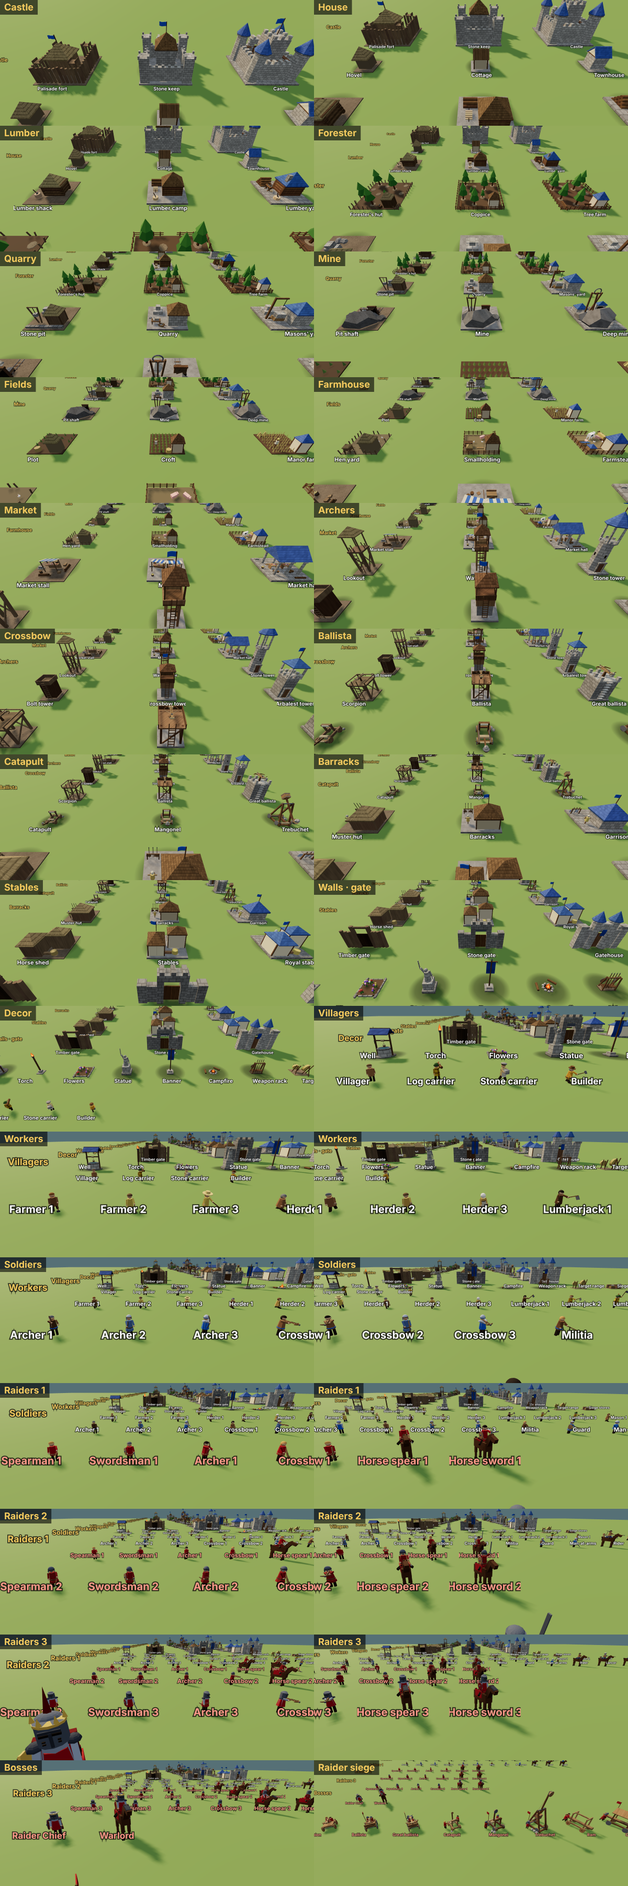
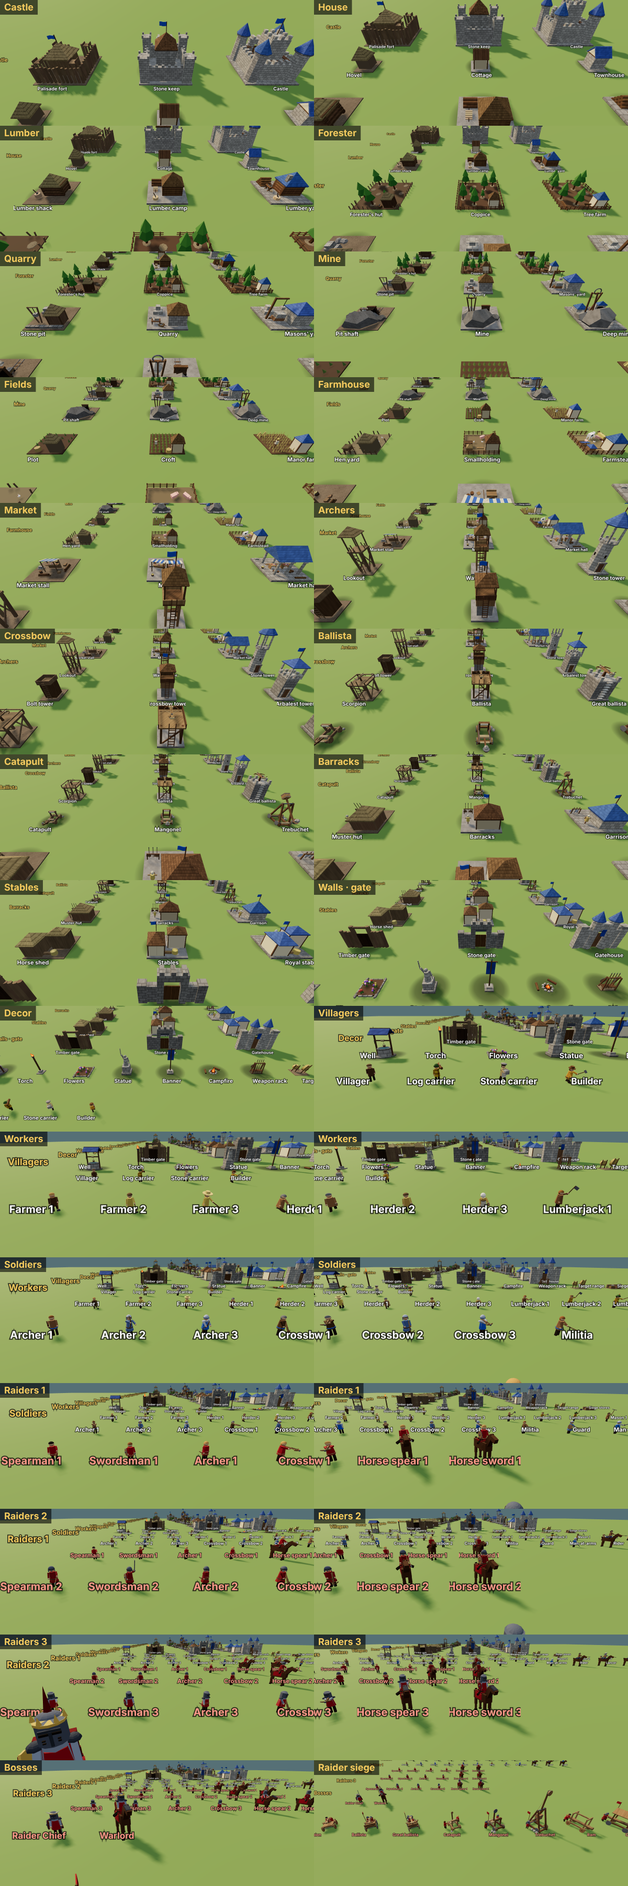
Codex zoom by footprint, bosses and siege; no oval under buildings; target posts on the straw; no fletching; riders' legs clear the flank cloths
Claude-Session: https://claude.ai/code/session_01KSdcztEkEeGoCTCNjYvWmU

Changed region(s): [[0.0308, 0.9022, 0.1233, 0.9333], [0.4317, 0.6844, 0.4625, 0.7156]]

diff --git a/index.html b/index.html
@@ -3832,9 +3832,11 @@ function makeButts() {
     // leaning back with it, and a prop down to the ground behind
     const S = new THREE.Group(); S.position.set(x, 0, z); S.rotation.y = a; g.add(S);
     const t = new THREE.Group(); t.position.set(0, r + .32, 0); t.rotation.x = -.18; S.add(t);
-    const L = r * 2 + .42;
-    for (const sx of [-1, 1]) { const l = box(.05, L, .05, M.timber, sx * r * .62, L / 2 * Math.cos(.18) , -.13 - L / 2 * Math.sin(.18)); l.rotation.x = -.18; S.add(l); }
-    const pr = box(.045, L * .95, .045, M.timber, 0, L * .42, -.42); pr.rotation.x = .42; S.add(pr);
+    // the two posts in the target's own (tilted) frame, flat against the straw's back face, from the ground to just over its top,
+    // and a rail across them behind the straw (Jack: the straw stood apart from its posts)
+    const bot = -(r + .32) / Math.cos(.18) - .05, top = r + .08;
+    for (const sx of [-1, 1]) t.add(box(.055, top - bot, .05, M.timber, sx * r * .62, (top + bot) / 2, -.126));
+    t.add(box(r * 1.5, .05, .04, M.timber, 0, -r * .45, -.17));
     const face = cyl(r, r, .2, 14, M.hay, 0, 0, 0); face.rotation.x = Math.PI / 2; t.add(face);
     // painted rings, each a little proud of the one behind (at one depth they fought for the same pixels and showed in patches)
     [[r * .78, M.canvas], [r * .58, kiteM], [r * .36, M.canvas], [r * .16, kiteM]].forEach(([rr, m], i) => { const ring = cyl(rr, rr, .012, 20, m, 0, 0, .106 + i * .008); ring.rotation.x = Math.PI / 2; t.add(ring); });
@@ -3853,11 +3855,10 @@ function makeStores() {
   g.add(box(1.5, .04, 1.2, M.court, 0, .02, 0));
   const crate = (x, z, w, d, h, r = 0) => { const c = box(w, h, d, M.wood, x, h / 2 + .04, z); c.rotation.y = r; g.add(c); for (const sy of [.2, .8]) { const b = box(w + .01, .03, d + .01, M.timber, x, h * sy + .04, z); b.rotation.y = r; g.add(b); } };
   crate(-.35, -.2, .6, .45, .35, .1);
-  // bolts, iron heads out: shaft and head built together and turned as one (Jack: the heads sat off the shafts' ends)
+  // bolts, iron heads out: shaft and head built together and turned as one (Jack: the heads sat off the shafts' ends; no fletching)
   for (let n = 0; n < 6; n++) {
     const b = new THREE.Group(); b.position.set(-.52 + (n % 3) * .14, .44 + Math.floor(n / 3) * .05, -.2 + (n % 2 ? .06 : -.06)); b.rotation.y = .1 + Math.PI / 2; g.add(b);
     b.add(box(.035, .035, .75, M.timber, 0, 0, 0)); const t = cone(.03, .1, 4, M.iron, 0, 0, .42); t.rotation.x = Math.PI / 2; b.add(t);
-    for (const s of [-1, 1]) { const f = box(.005, .05, .09, M.canvas, s * .02, 0, -.33); f.rotation.z = s * .5; b.add(f); }
   }
   crate(.4, -.25, .45, .45, .3, -.2);
   for (const [x, z] of [[.33, -.33], [.47, -.33], [.33, -.17], [.47, -.17], [.4, -.25]]) { const st = new THREE.Mesh(new THREE.DodecahedronGeometry(.075, 0), M.stone2); st.position.set(x, .4 + (x === .4 ? .08 : 0), z); st.castShadow = true; g.add(st); }   // round shot
@@ -5539,7 +5540,7 @@ const horseM = mat('#5a3a22'), maneM = mat('#2a1d14'), saddleM = mat('#3a2418'),
 const SADDLE = .72;   // lifts the rider's body so the hips sit on the saddle
 // a rider's legs: out to the sides and a little forward, down the horse's flanks (Jack: at -1.2 forward and .55 out they went
 // through the saddle and blanket)
-const RIDE_X = -.85, RIDE_Z = .85;
+const RIDE_X = -.85, RIDE_Z = 1.0;
 function mountHorse(p, cloth = blanketM) {
   const h = new THREE.Group(); p.g.add(h);
   h.add(box(.34, .36, .92, horseM, 0, .78, 0));                                   // barrel
@@ -5638,7 +5639,7 @@ function makeRaider(kind, tier = 1) {
   if (ENEMY[kind].mounted) {
     mountHorse(p);
     if (tier === 3) { const ch = box(.17, .06, .34, darkIronM, 0, 1.3, .72); ch.rotation.x = .35; p.horse.add(ch); }   // an iron plate down the horse's face
-    if (tier >= 2) for (const sx of [-1, 1]) p.horse.add(box(.02, .3, .5, raiderRed, sx * .185, .9, -.05));               // a red cloth down its flanks
+    if (tier >= 2) for (const sx of [-1, 1]) p.horse.add(box(.02, .26, .5, raiderRed, sx * .185, .8, -.05));               // a red cloth down its flanks
   }
   return p;
 }
@@ -5667,7 +5668,7 @@ function bossGear(p, kind) {
     armShield(p, heaterShield(.3, .38, raiderShieldM, bossGoldM));
     if (p.horse) {
       p.horse.add(box(.4, .34, .96, bardM, 0, .74, 0));                          // dark barding over the barrel
-      for (const sx of [-1, 1]) p.horse.add(box(.02, .36, .7, cloakM, sx * .205, .78, -.02));   // red cloth on both flanks
+      for (const sx of [-1, 1]) p.horse.add(box(.02, .32, .7, cloakM, sx * .205, .72, -.02));   // red cloth on both flanks
       const ch = box(.17, .06, .34, bossGoldM, 0, 1.3, .72); ch.rotation.x = .35; p.horse.add(ch);  // a gilded plate down its face
     }
   }
@@ -7892,7 +7893,11 @@ function codexMeet(kind, tier) { if (!achOn() || !ENEMY[kind] || (CODEX.r[kind] 
 // ---- the little renderer: one fixed square canvas, copied to the live view each frame and snapped for the list's thumbnails ----
 const CX_PX = 320;
 // each kind's zoom: [fit (metres), how high the camera aims (× fit), the grass patch's radius for figures and engines]
-const CX_FIT = { build: [4.6, .36], decor: [2.1, .4], foot: [.78, .48, .45], horse: [1.15, .5, .7], siege: [2.05, .36, 1.5] };
+// buildings by footprint (Jack): the 3×3 ones (castle, forester) in proportion to each other, the 2×2 ones smaller and the 1×1 ones
+// smaller again, though each a little bigger than to true scale; the town's catapult at the raiders' siege zoom; bosses on their own
+// (smaller than the figures they stand among); a tall building backs the camera off a little more so its top shows
+const CX_FIT = { b3: [5.6, .36], b2: [4.4, .36], b1: [3.3, .38], decor: [2.1, .4], foot: [.78, .48, .45], horse: [1.15, .5, .7], siege: [2.7, .38, 1.5],
+  bossFoot: [1.08, .5, .5], bossHorse: [1.6, .5, .8] };
 let cxR = null, cxScene = null, cxCam = null, cxModel = null, cxRaf = 0, cxT0 = 0, cxLast = 0;
 function codexRenderer() {
   if (cxR) return;
@@ -7914,12 +7919,14 @@ function codexRenderer() {
 function codexModel(side, id, tier) {
   if (side === 'b') {
     const g = makeModel(id, tier, true, id === 'wall' || id === 'gate' ? 10 : 0, 0); galPreview(g, id, tier);
-    return { g, cat: DEF[id].decor ? 'decor' : 'build', foot: (DEF[id].size || 1) * CELL };
+    // the soft dark patch drawn under buildings on the map shows as an oval on the round grass here (Jack): hidden
+    g.traverse(o => { if (o.userData.ao) o.visible = false; });
+    return { g, cat: DEF[id].decor ? 'decor' : id === 'catapult' ? 'siege' : 'b' + (DEF[id].size || 1), foot: id === 'catapult' ? 0 : (DEF[id].size || 1) * CELL };
   }
   const E = ENEMY[id], p = makeRaider(id, E.boss ? 3 : tier);
   Object.assign(p, E.engine ? { kind: id, tier, rate: E.rate, seed: 0 } : { raider: id, rt: tier, seed: 0 });
   if (!E.engine) p.g.scale.setScalar(UNIT_K * (E.boss || 1));
-  return { g: p.g, p, cat: E.engine ? 'siege' : E.mounted ? 'horse' : 'foot' };
+  return { g: p.g, p, cat: E.engine ? 'siege' : E.boss ? (E.mounted ? 'bossHorse' : 'bossFoot') : E.mounted ? 'horse' : 'foot' };
 }
 // frame the model: the camera backs off to fit its bounding box, a little from above and to the side
 function codexFrame(m) {
@@ -7930,7 +7937,7 @@ function codexFrame(m) {
   // one zoom per kind (Jack: models of a kind in proportion to each other): the economy and defence buildings share one, decor
   // another, raiders on foot, mounted raiders and siege engines one each; each fits the biggest of its kind (the stone castle, the
   // banner, the Raider Chief, the Warlord, the trebuchet), and the ground sits at the same height in the view for all of a kind
-  const F = CX_FIT[m.cat], fit = F[0], d = fit / Math.tan(cxCam.fov * Math.PI / 360) * 1.02;
+  const F = CX_FIT[m.cat], fit = m.cat[0] === 'b' && m.cat !== 'bossFoot' && m.cat !== 'bossHorse' ? Math.max(F[0], size.y * .62) : F[0], d = fit / Math.tan(cxCam.fov * Math.PI / 360) * 1.02;
   // the grass: past a building's corners (half its footprint's diagonal), a set patch under figures and engines
   const r = m.foot ? m.foot * .71 + .25 : F[2], lawn = cxScene.getObjectByName('lawn');
   lawn.scale.set(r, 1, r); lawn.position.set(0, -.06, 0);

diff --git a/src/game/11-codex.js b/src/game/11-codex.js
@@ -31,7 +31,11 @@ function codexMeet(kind, tier) { if (!achOn() || !ENEMY[kind] || (CODEX.r[kind] 
 // ---- the little renderer: one fixed square canvas, copied to the live view each frame and snapped for the list's thumbnails ----
 const CX_PX = 320;
 // each kind's zoom: [fit (metres), how high the camera aims (× fit), the grass patch's radius for figures and engines]
-const CX_FIT = { build: [4.6, .36], decor: [2.1, .4], foot: [.78, .48, .45], horse: [1.15, .5, .7], siege: [2.05, .36, 1.5] };
+// buildings by footprint (Jack): the 3×3 ones (castle, forester) in proportion to each other, the 2×2 ones smaller and the 1×1 ones
+// smaller again, though each a little bigger than to true scale; the town's catapult at the raiders' siege zoom; bosses on their own
+// (smaller than the figures they stand among); a tall building backs the camera off a little more so its top shows
+const CX_FIT = { b3: [5.6, .36], b2: [4.4, .36], b1: [3.3, .38], decor: [2.1, .4], foot: [.78, .48, .45], horse: [1.15, .5, .7], siege: [2.7, .38, 1.5],
+  bossFoot: [1.08, .5, .5], bossHorse: [1.6, .5, .8] };
 let cxR = null, cxScene = null, cxCam = null, cxModel = null, cxRaf = 0, cxT0 = 0, cxLast = 0;
 function codexRenderer() {
   if (cxR) return;
@@ -53,12 +57,14 @@ function codexRenderer() {
 function codexModel(side, id, tier) {
   if (side === 'b') {
     const g = makeModel(id, tier, true, id === 'wall' || id === 'gate' ? 10 : 0, 0); galPreview(g, id, tier);
-    return { g, cat: DEF[id].decor ? 'decor' : 'build', foot: (DEF[id].size || 1) * CELL };
+    // the soft dark patch drawn under buildings on the map shows as an oval on the round grass here (Jack): hidden
+    g.traverse(o => { if (o.userData.ao) o.visible = false; });
+    return { g, cat: DEF[id].decor ? 'decor' : id === 'catapult' ? 'siege' : 'b' + (DEF[id].size || 1), foot: id === 'catapult' ? 0 : (DEF[id].size || 1) * CELL };
   }
   const E = ENEMY[id], p = makeRaider(id, E.boss ? 3 : tier);
   Object.assign(p, E.engine ? { kind: id, tier, rate: E.rate, seed: 0 } : { raider: id, rt: tier, seed: 0 });
   if (!E.engine) p.g.scale.setScalar(UNIT_K * (E.boss || 1));
-  return { g: p.g, p, cat: E.engine ? 'siege' : E.mounted ? 'horse' : 'foot' };
+  return { g: p.g, p, cat: E.engine ? 'siege' : E.boss ? (E.mounted ? 'bossHorse' : 'bossFoot') : E.mounted ? 'horse' : 'foot' };
 }
 // frame the model: the camera backs off to fit its bounding box, a little from above and to the side
 function codexFrame(m) {
@@ -69,7 +75,7 @@ function codexFrame(m) {
   // one zoom per kind (Jack: models of a kind in proportion to each other): the economy and defence buildings share one, decor
   // another, raiders on foot, mounted raiders and siege engines one each; each fits the biggest of its kind (the stone castle, the
   // banner, the Raider Chief, the Warlord, the trebuchet), and the ground sits at the same height in the view for all of a kind
-  const F = CX_FIT[m.cat], fit = F[0], d = fit / Math.tan(cxCam.fov * Math.PI / 360) * 1.02;
+  const F = CX_FIT[m.cat], fit = m.cat[0] === 'b' && m.cat !== 'bossFoot' && m.cat !== 'bossHorse' ? Math.max(F[0], size.y * .62) : F[0], d = fit / Math.tan(cxCam.fov * Math.PI / 360) * 1.02;
   // the grass: past a building's corners (half its footprint's diagonal), a set patch under figures and engines
   const r = m.foot ? m.foot * .71 + .25 : F[2], lawn = cxScene.getObjectByName('lawn');
   lawn.scale.set(r, 1, r); lawn.position.set(0, -.06, 0);

diff --git a/src/game/04-models.js b/src/game/04-models.js
@@ -1056,9 +1056,11 @@ function makeButts() {
     // leaning back with it, and a prop down to the ground behind
     const S = new THREE.Group(); S.position.set(x, 0, z); S.rotation.y = a; g.add(S);
     const t = new THREE.Group(); t.position.set(0, r + .32, 0); t.rotation.x = -.18; S.add(t);
-    const L = r * 2 + .42;
-    for (const sx of [-1, 1]) { const l = box(.05, L, .05, M.timber, sx * r * .62, L / 2 * Math.cos(.18) , -.13 - L / 2 * Math.sin(.18)); l.rotation.x = -.18; S.add(l); }
-    const pr = box(.045, L * .95, .045, M.timber, 0, L * .42, -.42); pr.rotation.x = .42; S.add(pr);
+    // the two posts in the target's own (tilted) frame, flat against the straw's back face, from the ground to just over its top,
+    // and a rail across them behind the straw (Jack: the straw stood apart from its posts)
+    const bot = -(r + .32) / Math.cos(.18) - .05, top = r + .08;
+    for (const sx of [-1, 1]) t.add(box(.055, top - bot, .05, M.timber, sx * r * .62, (top + bot) / 2, -.126));
+    t.add(box(r * 1.5, .05, .04, M.timber, 0, -r * .45, -.17));
     const face = cyl(r, r, .2, 14, M.hay, 0, 0, 0); face.rotation.x = Math.PI / 2; t.add(face);
     // painted rings, each a little proud of the one behind (at one depth they fought for the same pixels and showed in patches)
     [[r * .78, M.canvas], [r * .58, kiteM], [r * .36, M.canvas], [r * .16, kiteM]].forEach(([rr, m], i) => { const ring = cyl(rr, rr, .012, 20, m, 0, 0, .106 + i * .008); ring.rotation.x = Math.PI / 2; t.add(ring); });
@@ -1077,11 +1079,10 @@ function makeStores() {
   g.add(box(1.5, .04, 1.2, M.court, 0, .02, 0));
   const crate = (x, z, w, d, h, r = 0) => { const c = box(w, h, d, M.wood, x, h / 2 + .04, z); c.rotation.y = r; g.add(c); for (const sy of [.2, .8]) { const b = box(w + .01, .03, d + .01, M.timber, x, h * sy + .04, z); b.rotation.y = r; g.add(b); } };
   crate(-.35, -.2, .6, .45, .35, .1);
-  // bolts, iron heads out: shaft and head built together and turned as one (Jack: the heads sat off the shafts' ends)
+  // bolts, iron heads out: shaft and head built together and turned as one (Jack: the heads sat off the shafts' ends; no fletching)
   for (let n = 0; n < 6; n++) {
     const b = new THREE.Group(); b.position.set(-.52 + (n % 3) * .14, .44 + Math.floor(n / 3) * .05, -.2 + (n % 2 ? .06 : -.06)); b.rotation.y = .1 + Math.PI / 2; g.add(b);
     b.add(box(.035, .035, .75, M.timber, 0, 0, 0)); const t = cone(.03, .1, 4, M.iron, 0, 0, .42); t.rotation.x = Math.PI / 2; b.add(t);
-    for (const s of [-1, 1]) { const f = box(.005, .05, .09, M.canvas, s * .02, 0, -.33); f.rotation.z = s * .5; b.add(f); }
   }
   crate(.4, -.25, .45, .45, .3, -.2);
   for (const [x, z] of [[.33, -.33], [.47, -.33], [.33, -.17], [.47, -.17], [.4, -.25]]) { const st = new THREE.Mesh(new THREE.DodecahedronGeometry(.075, 0), M.stone2); st.position.set(x, .4 + (x === .4 ? .08 : 0), z); st.castShadow = true; g.add(st); }   // round shot

diff --git a/src/game/08-combat.js b/src/game/08-combat.js
@@ -5,7 +5,7 @@ const horseM = mat('#5a3a22'), maneM = mat('#2a1d14'), saddleM = mat('#3a2418'),
 const SADDLE = .72;   // lifts the rider's body so the hips sit on the saddle
 // a rider's legs: out to the sides and a little forward, down the horse's flanks (Jack: at -1.2 forward and .55 out they went
 // through the saddle and blanket)
-const RIDE_X = -.85, RIDE_Z = .85;
+const RIDE_X = -.85, RIDE_Z = 1.0;
 function mountHorse(p, cloth = blanketM) {
   const h = new THREE.Group(); p.g.add(h);
   h.add(box(.34, .36, .92, horseM, 0, .78, 0));                                   // barrel
@@ -104,7 +104,7 @@ function makeRaider(kind, tier = 1) {
   if (ENEMY[kind].mounted) {
     mountHorse(p);
     if (tier === 3) { const ch = box(.17, .06, .34, darkIronM, 0, 1.3, .72); ch.rotation.x = .35; p.horse.add(ch); }   // an iron plate down the horse's face
-    if (tier >= 2) for (const sx of [-1, 1]) p.horse.add(box(.02, .3, .5, raiderRed, sx * .185, .9, -.05));               // a red cloth down its flanks
+    if (tier >= 2) for (const sx of [-1, 1]) p.horse.add(box(.02, .26, .5, raiderRed, sx * .185, .8, -.05));               // a red cloth down its flanks
   }
   return p;
 }
@@ -133,7 +133,7 @@ function bossGear(p, kind) {
     armShield(p, heaterShield(.3, .38, raiderShieldM, bossGoldM));
     if (p.horse) {
       p.horse.add(box(.4, .34, .96, bardM, 0, .74, 0));                          // dark barding over the barrel
-      for (const sx of [-1, 1]) p.horse.add(box(.02, .36, .7, cloakM, sx * .205, .78, -.02));   // red cloth on both flanks
+      for (const sx of [-1, 1]) p.horse.add(box(.02, .32, .7, cloakM, sx * .205, .72, -.02));   // red cloth on both flanks
       const ch = box(.17, .06, .34, bossGoldM, 0, 1.3, .72); ch.rotation.x = .35; p.horse.add(ch);  // a gilded plate down its face
     }
   }

diff --git a/CLAUDE.md b/CLAUDE.md
@@ -168,8 +168,8 @@ Jack works on this from two Claude accounts, switching when one runs out of usag
 - **Decor effects** (`DECOR_FX`, within `BOOST_R` = `CHARM_R` 8 m of the decor's centre; one of a kind doesn't stack with another of the same kind, different kinds add): torch +1 m and campfire +2 m range for ranged towers, siege engines and the castle's archers (the better of the two counts); target range +1.5 m for archer and crossbow towers and the castle; banner: barracks and stables troops near it strike 15% faster and move 20% faster; weapon rack: those troops hit 20% harder (both read at the soldier's own spot each strike, `decorFx`); well: lumber, forester, quarry, mine, fields and farmhouse work 20% faster (`prodK`: chop/dig times ÷, food ×); siege stores: ballista and catapult reload 20% faster (`siegeRate`). `rangeOf(B)` is the range everywhere (shooting, the range ring, the card). Flowers and statue boost house gold through charm; the path speeds walkers on it. Cards show the boosts (`range` crosshair, in colour: red ring, blue inner ring, gold ticks, `rate` lightning bolt, `prod` cog, `speed` boot, `sword`, all with names in `STAT_NAME`); the reach shows as a soft blue disc with a ring edge both while placing a decor and when one is selected (`makeDisc`/`drapeDisc`: a filled disc draped on the ground, `boostDisc` for the ghost, `selDisc` with `rangeLine` from `syncRange`; a thin ring alone was hard to see on a phone); a decor's card and its placement hint list its effects (`FX_ITEMS`, `fxStats`) and the hint counts the buildings it would help (`fxTargets`).
 - **Star upgrades** (Jack's design after nine drafts; `src/game/11-upgrades.js`): the campaign's stars buy upgrades, ★1 each, 36 in all, one per star there is (`UP_TABS`): three tabs, **Economy** (house: Tax +1 gold, Bigger homes +1 villager (and the houses get their chimneys and smoke: none without it, `UPK.chimney`, read by `makeHouse` and `emitSmoke`; Jack); fields: Good seed +20% food, Fences +30% food (Jack: it was +15%; keep pests out; the fields' fence posts and rails only once bought, `UPK.fences` in `makeFarm`; Jack: it was Granary, villagers eat 15% less, and a saved Granary carries over as Fences); lumber: Sharp axes chop 20% faster (`UPK.chop`), Carts +1 wood a trip (`LUMBER_LOAD` 3; the lumber camp only, a forester's woodcutters always bring 2: Jack; its woodcutters carry a bundle on the right shoulder: two logs tight side by side, a third in the groove on top, two rope bands round them (Jack), the right arm swung out and up from below (`arms[1].rotation.z` 2.3) so the hand holds the outer log (a single log's arm is swung out a little too, `Rt` −2.6 and z .28, the hand close against its outer side: Jack; .55 was too far out) (Jack's front-view sketch; the extra logs and bands are `carryLog`'s children; stacked on the first it floated above the hand, one on each shoulder came before, and three was too many: Jack), shown on a lumber camp's trip); quarry: Iron picks dig 20% faster (`UPK.dig`), Wheelbarrows +1 stone a trip (`UPK.stoneTrip`; a quarry's masons wheel each load home in a barrow, `makeBarrow` in `v.body` so it moves with the hands, `v.barrowOn`, the handles running from the tray's front corners into both hands (worked out from the shoulder and the arm at −.75; Jack saw the hands off them), the pusher upright, the block at the chest hidden; Jack); market: Fair trade +2 when buying, Haggling +2 gold when selling (`TRADES`); forester: Woodcutter +1 woodcutter (`DEF.forester.workers` +1: 2/3/4), Big grove +2 trees (`DEF.forester.grove` +2: 7/9/10) (Jack: it was Quick saplings, trees grow 25% faster, but a simulation showed the woodcutters, not the trees, hold a forester back: at tiers 1–2 every tree stood grown and neither upgrade added a single log; a saved Quick saplings carries over as Woodcutter); mine: Rich seams dig 20% faster, Lanterns +1 miner (and two iron lanterns hang either side of the adit's mouth, glowing, with a night light, `UPK.lanterns`; the mine had one small glow by its mouth before, now none without it: Jack); farmhouse: Fat herds +20% food, Dairy +1 herder (food raised by the herder's share)), **Defences** (archers +15% damage / +1.5 m range; crossbow +15% damage / shoot 15% faster; ballista +20% damage / Sights +2 m range; catapult +20% blast / Fire pots: hits burn; barracks soldiers +20% health / Fourth soldier (`SQUAD` has a 4th spot); stables riders +20% health / Lance charge: the stables' riders charge (`v.charged`: they spur on ×1.35 at each new foe and their first blow on it is ×2, with a burst of dust and a small shake); without it they don't (Jack), while the castle's summoned riders always charge; Sturdy walls +25% wall health; Iron gate +30% gate health) and **Castle** (Quick volley every 15 s / Fire volley: hits burn; Swift call every 12 s / Second rider (Jack swapped them; it was Third rider until the default went to one); castle archers Keen eyes +2 m range; Stout walls +25% castle health). On each building the second needs the first. Bought ones are kept in `localStorage['mtd-upg']` (`UPG`); stars to spend = the campaign's stars (`campStarsN`) less those bought. **Campaign only** (Jack): `applyUpgrades()` (from `startGame`, after `mapRules`) first puts back the plain numbers (`UP_KEEP`, copied at load) and then, on a campaign map (`upOn`), changes `DEF`, `SOLDIER`, `RIDER`, `VOLLEY`, `SUMMON`, `TRADES`, `MEAL`, `LUMBER_LOAD` and `UPK`; free play always gets the plain ones. Burning (`burnEnemy(e, dps, s)`, `burnTick` at the top of `updateEnemies`): a few seconds of damage every frame, embers, and a few small flickering tongues of the torches' fire round the raider's body (`burnFx`, `burnOff`; four flames, two mid and a core: Jack found the first ring of sixteen big ones too much; `e.burnG` follows it, raised to the saddle on horses, bigger on bosses, dying down over the burn's last half second; Jack saw no fire with only the tiny embers); never siege engines; fire volley 4 a second for 3 s, fire pots 12% of the stone's damage a second for 3 s. **Screen** (`#upPick`, `renderUpgrades`; from the campaign screen's round **Upgrades** button on the left just above the progress bar (`.campSide`, held just above the bar by a wrapper round it, `.cDotsWrap`, which now carries the bar's margins, so nothing moves (a zero-height row first sat on the bar: Jack); on a phone held sideways, where the deck reaches down to the bar, the button sits to the bar's left instead; `#campUpBtn`: a steel-headed hammer from the same icon set, a gold badge with the stars still to spend, `#campUpN`, that pulses and glows (`badgePulse`, 1.6 s) so players see there are upgrades to buy (Jack); hidden at none; Jack: first a pill beside the stars, then a circle at the top right, then here; Achievements to come as a second circle beside it); Back returns to the campaign): title with a slim star pill (Jack: compact but not too thin), text-only tabs (tab icons were tried and dropped: Jack; Play's bold body font on the tabs and Resume, and the title's face on the trees' names, were tried and dropped too; drawn bolder and spaced like Resume: a .35 px stroke, .06em apart, Jack), the one in use in the Buy button's gold with dark text (a brighter gold with a glow was too bright: Jack), the others dark and dim (Jack: it didn't stand out; the menus' general bronze button rule, `.modal.tome button:not(...)`, outranked the tabs' and tiles' own styles, so `.upTab` and `.upNode` are now in its `:not` list), a grid of trees four across, each a banner in the town's colour (`--tc`/`--td`, `TEAM_PAL[TEAM.town]`) with the building's line icon and name over its one or two square tiles joined by a chain; a tile shows its picture, grey and dim until bought (Jack: colour only once upgraded; the next one to buy a little less dim than the locked ones; the details' big picture too, `.upBig.dim`), then ✓ once bought (gold, glowing, in full colour) or ★1 (gold rim when it can be bought, a darker rim while the one above isn't; the padlock over the picture was dropped: Jack); a per-tab **Reset** ("Reset Economy"…, just above the details on the right: gives back only that tab's stars, Jack) and the details panel (picture, building, name, effect, Buy ★1 / Bought / Locked). Pictures are **game-icons.net** icons (CC BY 3.0, no credit line in the game (Jack had it removed; the licence asks for attribution, so keep it here)), coloured by part (Jack asked for colours, then second colours on parts: steel heads, brown handles, clay pot…), drawn with a thick dark outline (stroke-width 34 of 512, was 18; the Upgrades button's hammer too: Jack); Steel bolts' bolt has its own part line, and Heavy draw's arrowhead is grey only as far as its barbs, outlined off the brown shaft (it was a box clip); Wheelbarrows' load of stone is grey like Heavy stones, outlined off the brown barrow; the Upgrades button's hammer is centred in its circle as seen with no star badge, nudged a little up and right of the drawing's middle (viewBox `-12 14 512 512`; Jack: lower and left was the wrong way), made outside the game by scratch tools and pasted in as `UPG_ICO` (about 100 KB); the knight's cloth in Lance charge follows the town's colour (`upIco` swaps `#9cc5ff`/`#2f5faf`). Hand-drawn pictures were tried first and dropped (Jack). The sheet (`.upSheet`) is made once and only its insides redrawn: the menus' rise animation runs on a menu's direct children, so a new sheet on every tap replayed it and the whole screen flickered (Jack); picking another upgrade (`selectUpgrade`) only moves the highlight and refills the details. Buying a building's first upgrade picks its second at once, so two taps on Buy get both (Jack). `#upPick` never centres past the top (`align-items: flex-start`, the sheet's `margin: auto`): on a phone held sideways the title and tabs were cut off above the screen; there the trees go eight across, a little smaller (tiles 52 px, pictures 30 px raised 4 px so they clear the ★1 badge by the same 5 px as upright: Jack saw them sitting low), with Reset to the left of the details on their row, so a tab fits without scrolling; the details' top edge lines up with Reset's (`.upRs` margin-bottom −29.4 px, Reset's height; Jack: moving the header up instead was reverted).
 - **Achievements** (Jack: badges only, no reward; counted on campaign stages only, never free play; `src/game/11-achieve.js`): 28 in three groups (`ACH_TABS`): **Campaign** (First Victory: win Greenvale; Halfway There: win 6 stages; Chief Felled / Warlord's End: slay the bosses; Rising Star / Star Lord: 18 / all 36 stars; Hard as Iron / Crowned King: win one / every one of the twelve on Hard; the bonus stages (Jack): Rainmaker (desert: sand, green cacti, an orange sun), Blight Bane (plague doctor: dark hat and cloak, ivory beak mask, green eye glass, leather band), Winter Lord (ice-blue snowflake, white heart) for each one's crown and Legend (open treasure chest: wood, gold, red and blue gems) for all three; coloured by part like the rest, Jack), **Battle** (Raider Hunter / Bane of Raiders: slay 250 / 2,000 raiders; Rain of Arrows: 50 volleys; Charge: riders slay 100 (a kill whose striker has a horse: soldiers and riders now pass themselves to `hurtEnemy` as `by`); Siege Breaker: 25 engines; Trial by Fire: 100 burning raiders; Flawless: win without losing a building; Last Stand: win with the castle under 10%), **Town** (Thriving Town: 50 villagers at once; Master Builder: 500 built; Castle Lord: castle to tier 3; Merchant Prince: 100 trades; Woodsman / Stonemason / Good Harvest: 5,000 wood / stones / food gathered; Great Wall: 100 walls). Kept in `localStorage['mtd-ach']` (`ACH`: `done` ids and `n` counters, saved .8 s after a change); counters add up over every campaign game (`achAdd(k, n)` from the kill, volley, trade, delivery, payout and build hooks, `achMax('vill')` from `goalTick`, `achFlag` for the bosses, castle tier 3, and Flawless / Last Stand in `endGame`); the stage, star and crown ones are worked out from `STARS`/`CROWNS` (`achCheck`, after every game and when the campaign opens); `achOn()` keeps the showcase, the gallery and free play out. Earning one shows a gold pill under the top panel (`#achToast`: its picture in a gold disc, "Achievement" and the name, 3.2 s, Jack's `Achievement_sound.mp3` (`SND.achieve`), one at a time) and a log line. **Screen** (`#achPick`, `renderAchievements`, `selectAch`; laid out like Upgrades and sharing its sheet, top bar and details classes): Back, "Achievements" and a pill with the count earned ("7 / 24"), then the **whole list at once, no tabs** (Jack: it had three tabs; scrolling is fine): only the list scrolls, in its own box (`.achGrid`, flex 1; `#achPick` itself never scrolls), and the details sit fixed below it, so scrolling never moves or covers them (Jack: the sticky details covered the last row upright): upright a grid four across that scrolls down, the box reaching 9 px into the sheet's right margin so its scrollbar runs clear of the tiles (Jack), sideways two rows that scroll right (`grid-auto-flow: column`) with 18 px under the second row so the scrollbar sits below the names and bars (Jack); the tiles with the name under each and a thin progress bar for counted ones not yet done (its gold fill only once at least one is done: at 0 the bar is empty; Jack); a tile is grey and dim until earned, then gold with a ✓ in full colour; its picture 34 px raised 4 px (28 px sideways) so the ✓ never covers it (Jack: as the upgrades' pictures); the details show the big picture, the tab, name, how to earn it and the progress ("186 / 250", "Not yet" or "Done"). Opened from the campaign screen's round **trophy** button (`#campAchBtn`, a gold cup on a wooden base, game-icons.net's trophy-cup; Jack picked it over a trophy in laurels). The three round buttons, Upgrades' hammer, the trophy and the Codex's book, sit side by side in `.campSide` just above the progress bar on its left, upright and sideways alike (Jack: sideways they used to sit at the bar's two ends); sideways the cards are made smaller and lifted (`layoutDeck` takes 110 px off the card's height and lifts the cards 25 px, `--cy`) to make room for them, keeping the front card 38 px clear of the deck's top: the deck's edge fade (`mask-image`) clips at its box, and nearer the top it cut the current stage's gold glow into a hard yellow line (Jack). Pictures: game-icons.net icons (CC BY 3.0), coloured by part like the upgrades' and drawn with the same 34/512 outline (made outside the game by scratch tools, keyed by icon name, the knight's and banner's blue following the town's colour like `upIco`): Jack had pictures already used by upgrades swapped (Rain of Arrows striking arrows, Charge a cavalryman, Merchant Prince a market stall, Woodsman a log), part colours kept only where they read well (grey tips on brown arrows, brown hammer handle, gold crown in green laurels, all-gold Crowned King, blue awning; Trial by Fire, Flawless, Castle Lord and Great Wall stay one colour; red feathers on Raider Hunter were tried and dropped).
-- **Codex** (Jack: a gallery for players, after the dev gallery; `src/game/11-codex.js`): every building and decor (`CODEX_B`, Buildings tab) and every raider kind, siege engine and boss (`CODEX_R`, Raiders tab) in a grid like the Achievements screen (`#codexPick`, `renderCodex`, `selectCodex`; shares `.upSheet`/`.achSheet`/`.achGrid`/`.upDet`); **locked until used or met** (Jack): a building opens when one is finished, each tier once one is upgraded to it (`codexUse` from `completeSite`'s build and upgrade); a raider when one comes out (`codexMeet`, at its first step in `updateEnemies`, so a boss stage's dormant camp raiders count only once woken), each tier once met at it; only in real campaign games (`achOn()`); kept in `localStorage['mtd-codex']` (`{ b: { type: top tier }, r: { kind: top tier } }`, the castle always open at tier 1; Reset campaign clears it). A locked tile is the model's dark shape with a padlock and "???"; the details say "Build one to unlock" / "Meet one to unlock". The details: the real model turning slowly on a round patch of dark green grass (`#24521a`; Jack: greener, then darker), wide enough to reach past a building's corners (half its footprint's diagonal); `cxR.clippingPlanes` cuts everything below the grass, as the bases run a metre underground and poked through the patch (Jack); **one zoom per kind** (Jack: standardised, models of a kind in proportion to each other; `CX_FIT`, `m.cat` from `codexModel`): economy and defence buildings (fit 4.6 m, sized for the stone castle), decor (2.1), raiders on foot (.78, the Raider Chief), mounted raiders (1.15, the Warlord) and siege engines (2.05, the trebuchet), each aiming at a set height so the ground sits at the same place in the view for a whole kind; the grass reaches past a building's corners (`foot` × .71), a set patch under figures and engines (raiders keep fighting with the gallery's poses, `galPose`; stables' horses idle), drawn by the Codex's own small WebGL renderer (`cxR`, 320 px square, alpha, the game's tone mapping; the main renderer keeps drawing the title scene) and copied each frame onto the panel's canvas (`.cxView`); the tile pictures are snapshots of it made a few each frame (`cxQueue`, `cxThumb`, kept for the session); the tier name, name, a short line (`CODEX_TXT`; raider siege lines are `r_ballista`/`r_catapult`), Tier 1/2/3 buttons (unreached tiers padlocked) and the tier's stats (`newCardStats(type, tier)`; raiders: health, damage and range from `ENEMY` × `RAIDER_T`). Opened from the campaign screen's open-book button (`#campCxBtn`, `openCodex`).
-- **Model fixes from the Codex** (Jack): the target range's two targets now stand each in its own turned frame with two posts just behind the straw leaning back with it and a prop behind (the posts stood apart from the targets), and its missed arrows lie scattered in front, some stuck in at a slant; the siege stores' bolts are each one group, shaft, iron head on its end and fletching (the heads sat off the shafts); the statue has a second arm, down at its side, its hand on the hilt of a sword standing point-down on the plinth; riders' legs go out to the sides and a little forward (`RIDE_X` −.85, `RIDE_Z` .85, used by `mountHorse` and the stables' riders; at −1.2 / .55 they went through the saddle); the bosses' cloaks are four strips hinged one under the other (`p.cape`), rippling (`capeWave`, from `updateEnemies` and `galPose`) and streaming back further at a run.
+- **Codex** (Jack: a gallery for players, after the dev gallery; `src/game/11-codex.js`): every building and decor (`CODEX_B`, Buildings tab) and every raider kind, siege engine and boss (`CODEX_R`, Raiders tab) in a grid like the Achievements screen (`#codexPick`, `renderCodex`, `selectCodex`; shares `.upSheet`/`.achSheet`/`.achGrid`/`.upDet`); **locked until used or met** (Jack): a building opens when one is finished, each tier once one is upgraded to it (`codexUse` from `completeSite`'s build and upgrade); a raider when one comes out (`codexMeet`, at its first step in `updateEnemies`, so a boss stage's dormant camp raiders count only once woken), each tier once met at it; only in real campaign games (`achOn()`); kept in `localStorage['mtd-codex']` (`{ b: { type: top tier }, r: { kind: top tier } }`, the castle always open at tier 1; Reset campaign clears it). A locked tile is the model's dark shape with a padlock and "???"; the details say "Build one to unlock" / "Meet one to unlock". The details: the real model turning slowly on a round patch of dark green grass (`#24521a`; Jack: greener, then darker), wide enough to reach past a building's corners (half its footprint's diagonal); `cxR.clippingPlanes` cuts everything below the grass, as the bases run a metre underground and poked through the patch (Jack); **one zoom per kind** (Jack: standardised, models of a kind in proportion to each other; `CX_FIT`, `m.cat` from `codexModel`): buildings by footprint, the 3×3 ones (castle, forester) in proportion to each other (`b3` fit 5.6 m), the 2×2 ones smaller (`b2` 4.4) and the 1×1 ones smaller again (`b1` 3.3), each a little bigger than to true scale (Jack), a tall building backing the camera off a little more (`max(fit, height × .62)`) so its top shows; decor (2.1); raiders on foot (.78) and mounted (1.15); the bosses on their own, smaller than the figures (`bossFoot` 1.08, `bossHorse` 1.6; Jack found them too big); siege engines (2.7, so the trebuchet shows whole), the town's catapult at the same zoom as the raiders' (Jack); each aims at a set height so the ground sits at the same place in the view for a whole kind; the soft dark patch drawn under buildings on the map (`userData.ao`) is hidden here (it showed as an oval on the round grass: Jack); the grass reaches past a building's corners (`foot` × .71), a set patch under figures and engines (raiders keep fighting with the gallery's poses, `galPose`; stables' horses idle), drawn by the Codex's own small WebGL renderer (`cxR`, 320 px square, alpha, the game's tone mapping; the main renderer keeps drawing the title scene) and copied each frame onto the panel's canvas (`.cxView`); the tile pictures are snapshots of it made a few each frame (`cxQueue`, `cxThumb`, kept for the session); the tier name, name, a short line (`CODEX_TXT`; raider siege lines are `r_ballista`/`r_catapult`), Tier 1/2/3 buttons (unreached tiers padlocked) and the tier's stats (`newCardStats(type, tier)`; raiders: health, damage and range from `ENEMY` × `RAIDER_T`). Opened from the campaign screen's open-book button (`#campCxBtn`, `openCodex`).
+- **Model fixes from the Codex** (Jack): the target range's two targets now stand each in its own turned frame, their two posts built in the target's own tilted frame flat against the straw's back face, with a rail across them behind (the straw stood apart from its posts; a prop behind was tried and dropped), and its missed arrows lie scattered in front, some stuck in at a slant; the siege stores' bolts are each one group, shaft and iron head on its end (the heads sat off the shafts; fletching was tried and dropped); the statue has a second arm, down at its side, its hand on the hilt of a sword standing point-down on the plinth; riders' legs go out to the sides and a little forward (`RIDE_X` −.85, `RIDE_Z` 1.0, used by `mountHorse` and the stables' riders; at −1.2 / .55 they went through the saddle), and the red flank cloths (tier-2+ raider horses, the Warlord's) hang lower, so the legs pass over them instead of through (Jack); the bosses' cloaks are four strips hinged one under the other (`p.cape`), rippling (`capeWave`, from `updateEnemies` and `galPose`) and streaming back further at a run.
 - **Decor charm** boosts house gold within `CHARM_R=8`. Paths add `PATH_CHARM=.02` each (path bonus capped at +20%). Paths make everyone (including raiders) move ×1.6.
 
 ## Buildings (`DEF`)
